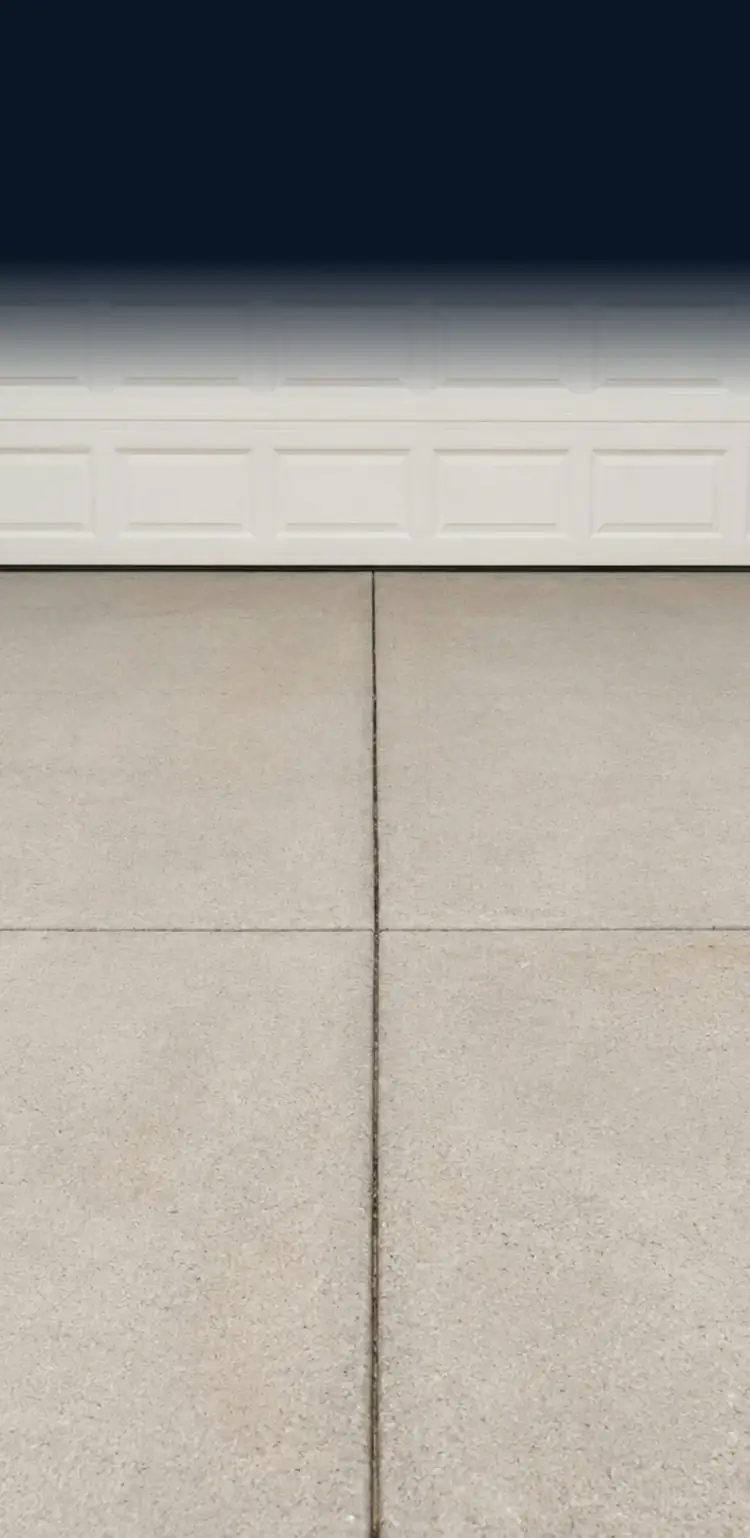
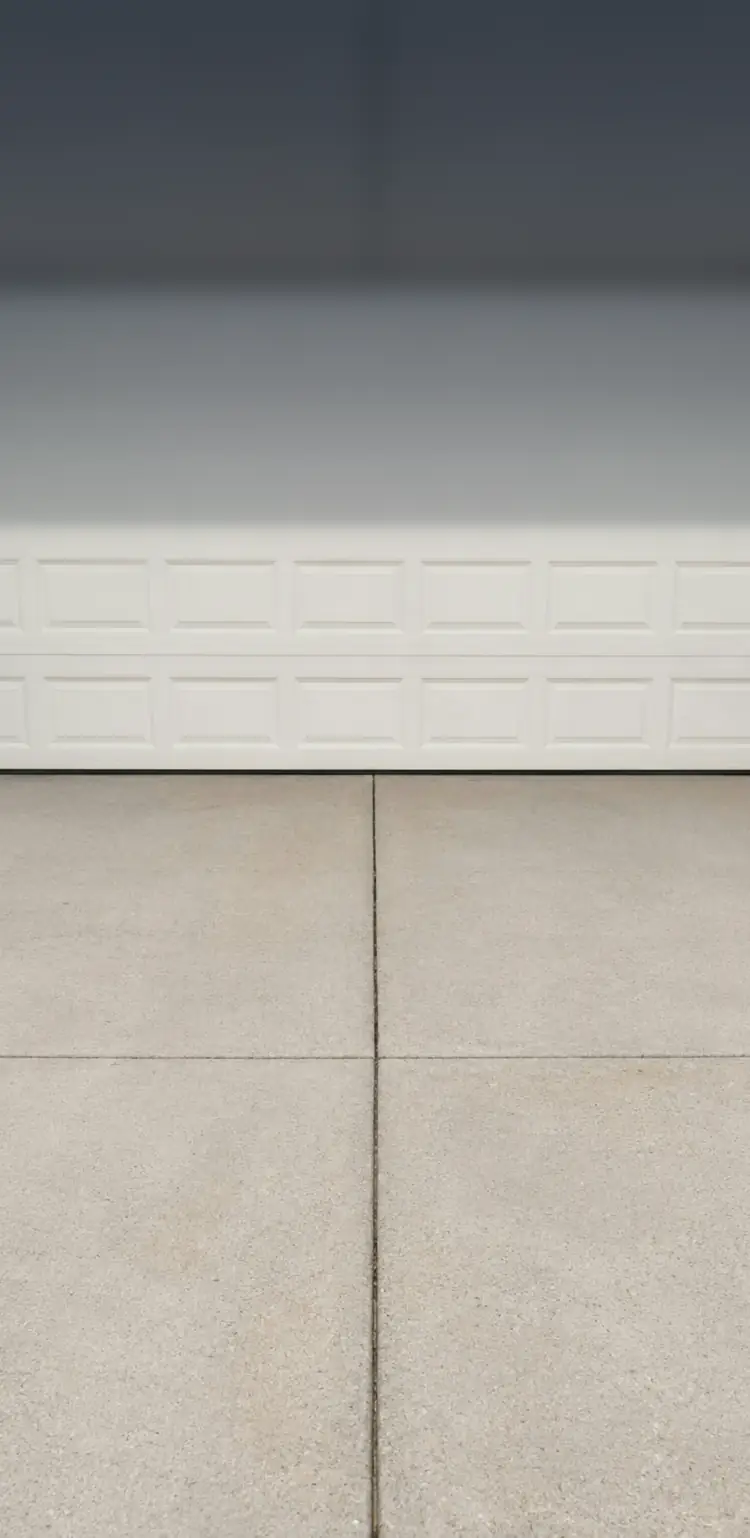
Zoom the phone hero out properly and bust cached copies
Phone hero shows ~1.5x more driveway width, with a soft blurred
continuation above the garage door. Hero images, CSS and JS links get a
version query so phones fetch the new files.

diff --git a/index.html b/index.html
@@ -27,11 +27,11 @@
 <meta name="twitter:card" content="summary_large_image">
 
 <link rel="preload" href="assets/fonts/archivo-latin.woff2" as="font" type="font/woff2" crossorigin>
-<link rel="stylesheet" href="assets/css/styles.css">
-<link rel="preload" as="image" href="assets/img/photos/hero-before-mobile.webp" media="(max-aspect-ratio: 4/5)" fetchpriority="high">
-<link rel="preload" as="image" href="assets/img/photos/hero-after-mobile.webp" media="(max-aspect-ratio: 4/5)">
-<link rel="preload" as="image" href="assets/img/photos/hero-before-desktop.webp" media="(min-aspect-ratio: 4/5)" fetchpriority="high">
-<link rel="preload" as="image" href="assets/img/photos/hero-after-desktop.webp" media="(min-aspect-ratio: 4/5)">
+<link rel="stylesheet" href="assets/css/styles.css?v=4">
+<link rel="preload" as="image" href="assets/img/photos/hero-before-mobile.webp?v=4" media="(max-aspect-ratio: 4/5)" fetchpriority="high">
+<link rel="preload" as="image" href="assets/img/photos/hero-after-mobile.webp?v=4" media="(max-aspect-ratio: 4/5)">
+<link rel="preload" as="image" href="assets/img/photos/hero-before-desktop.webp?v=4" media="(min-aspect-ratio: 4/5)" fetchpriority="high">
+<link rel="preload" as="image" href="assets/img/photos/hero-after-desktop.webp?v=4" media="(min-aspect-ratio: 4/5)">
 
 <script>
   /* Decide the hero mode before first paint so the page height never jumps. */
@@ -536,8 +536,8 @@
   <a class="btn btn--primary" href="#quote">Get a free quote <svg aria-hidden="true"><use href="#i-arrow"/></svg></a>
 </div>
 
-<script src="assets/js/surface-engine.js" defer></script>
-<script src="assets/js/app.js" defer></script>
+<script src="assets/js/surface-engine.js?v=4" defer></script>
+<script src="assets/js/app.js?v=4" defer></script>
 <script data-goatcounter="https://smuffinz.goatcounter.com/count" async src="//gc.zgo.at/count.js"></script>
 </body>
 </html>

diff --git a/assets/js/app.js b/assets/js/app.js
@@ -30,8 +30,8 @@
     hero: {
       /* Straight-on concrete driveway in front of a garage door (Unsplash, see CREDITS.md). The 'before' is the same
          photo with real concrete grime, oil stains and wheel-path dirt added. */
-      desktop: { after: 'hero-after-desktop.webp', before: 'hero-before-desktop.webp', size: [1920, 1200], beforeRect: [0, 0, 1, 1], focus: [0.5, 1] },
-      mobile: { after: 'hero-after-mobile.webp', before: 'hero-before-mobile.webp', size: [750, 1538], beforeRect: [0, 0, 1, 1], focus: [0.5, 1] },
+      desktop: { after: 'hero-after-desktop.webp?v=4', before: 'hero-before-desktop.webp?v=4', size: [1920, 1200], beforeRect: [0, 0, 1, 1], focus: [0.5, 1] },
+      mobile: { after: 'hero-after-mobile.webp?v=4', before: 'hero-before-mobile.webp?v=4', size: [750, 1538], beforeRect: [0, 0, 1, 1], focus: [0.5, 1] },
       slab: null, /* strips sweep straight across the screen */
     },
   };
